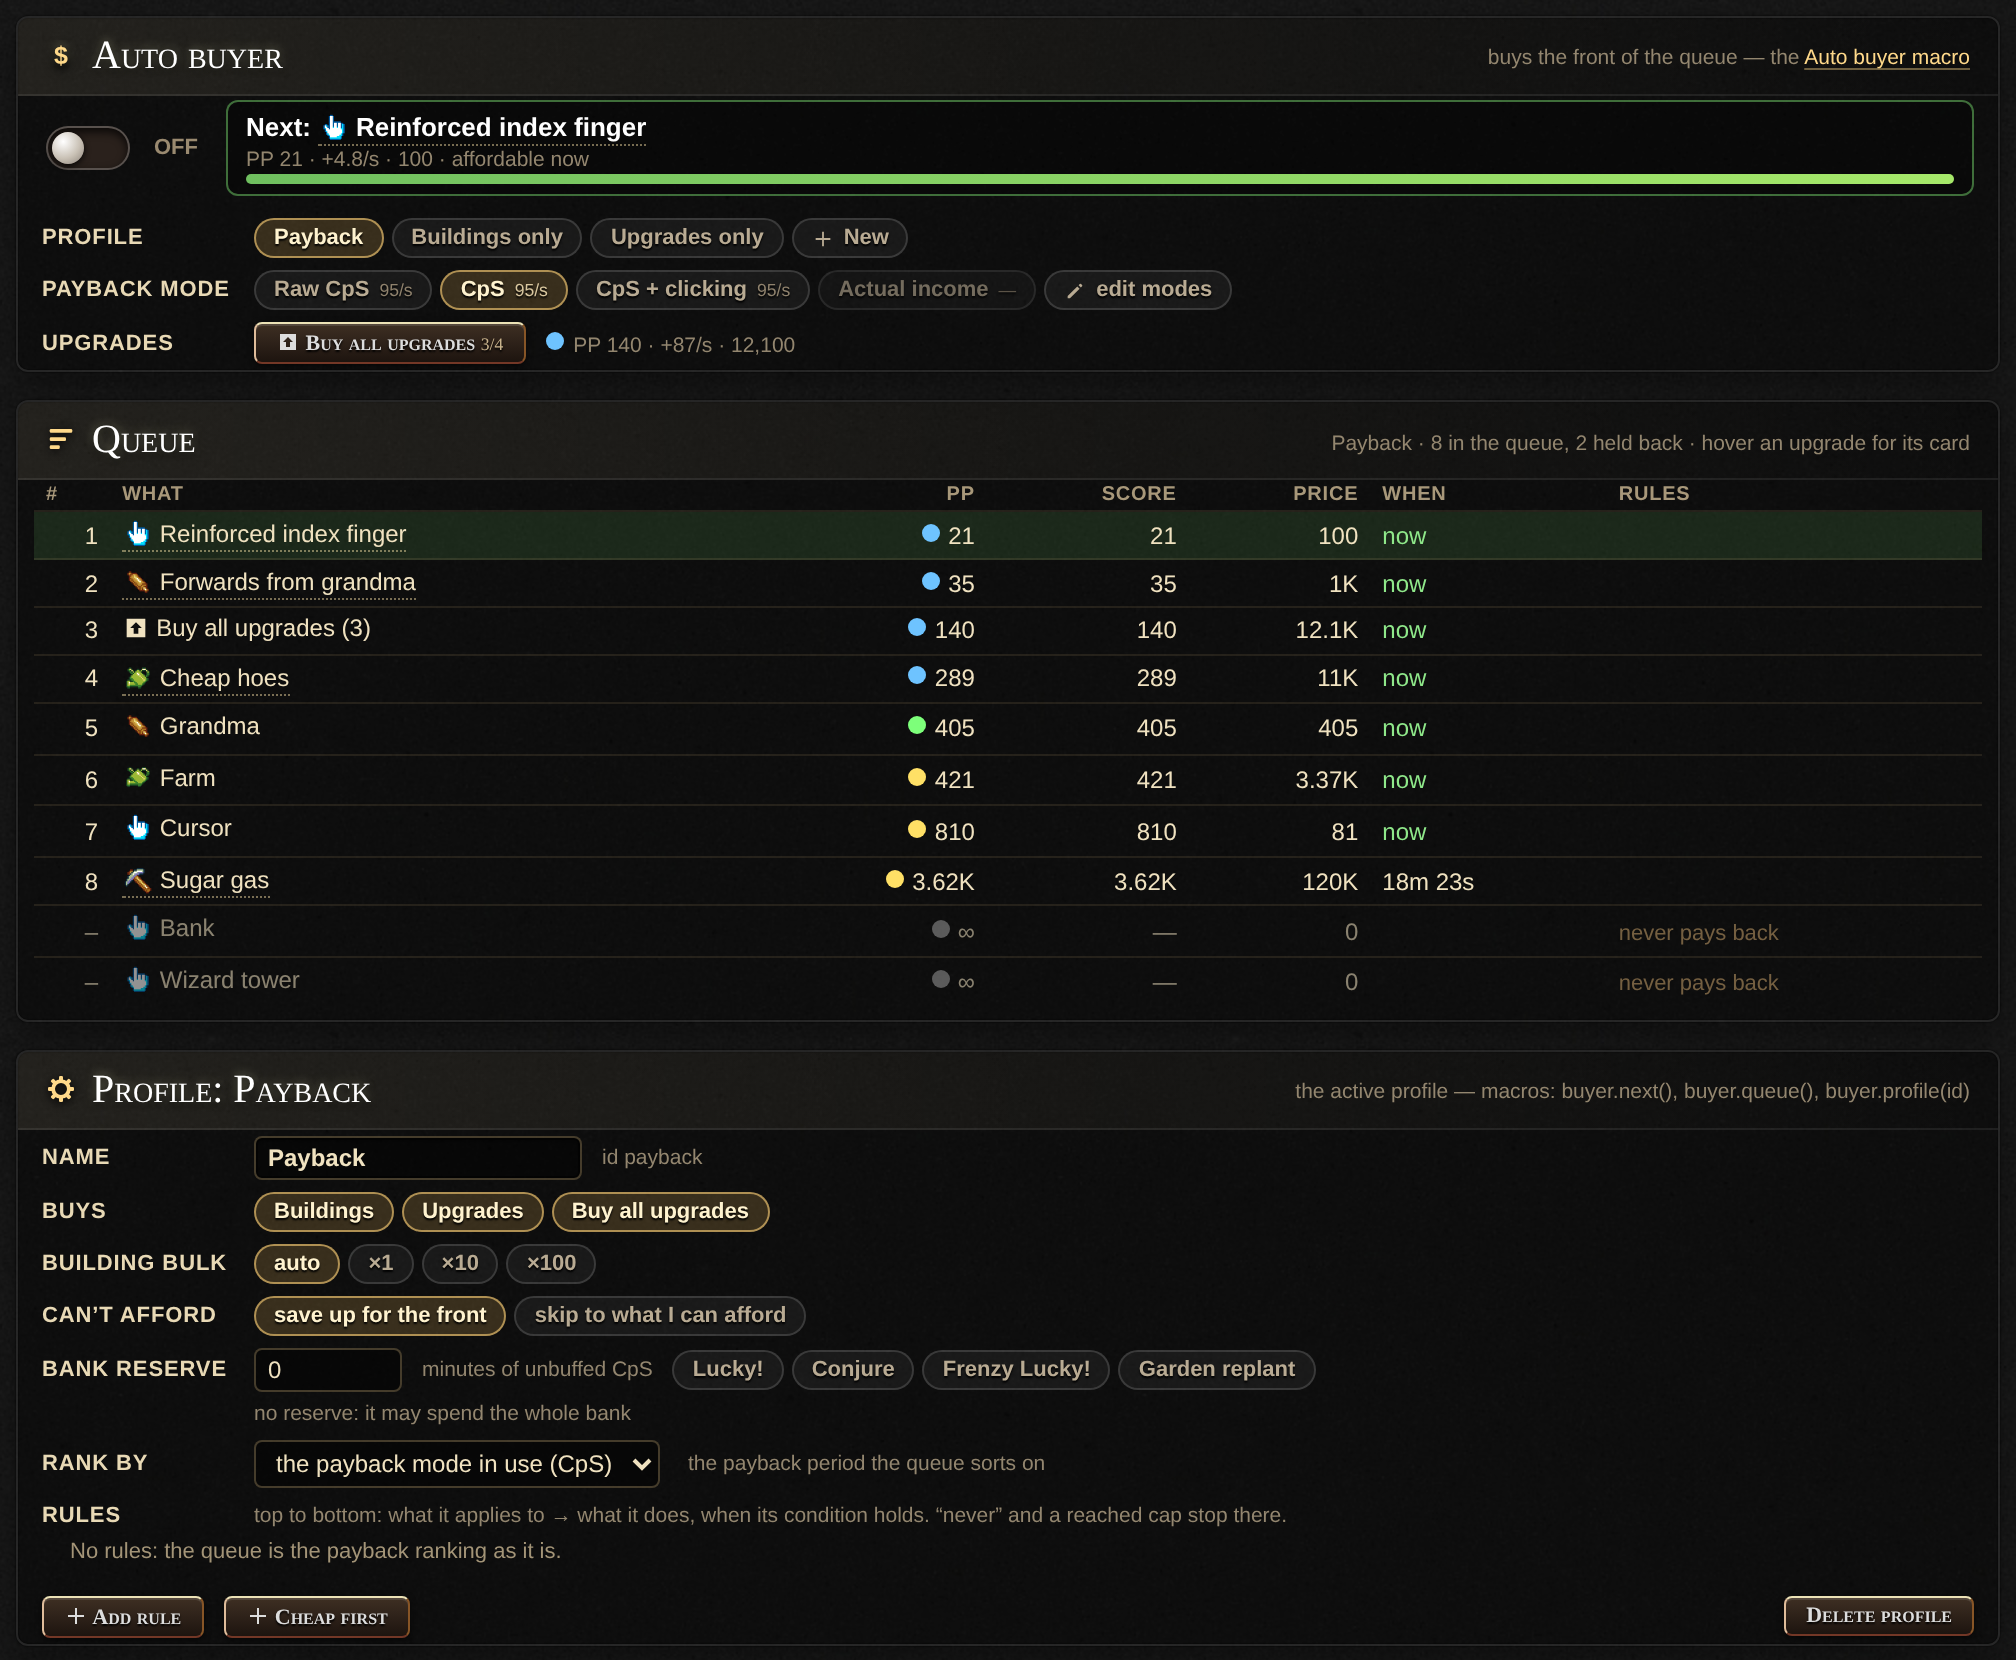
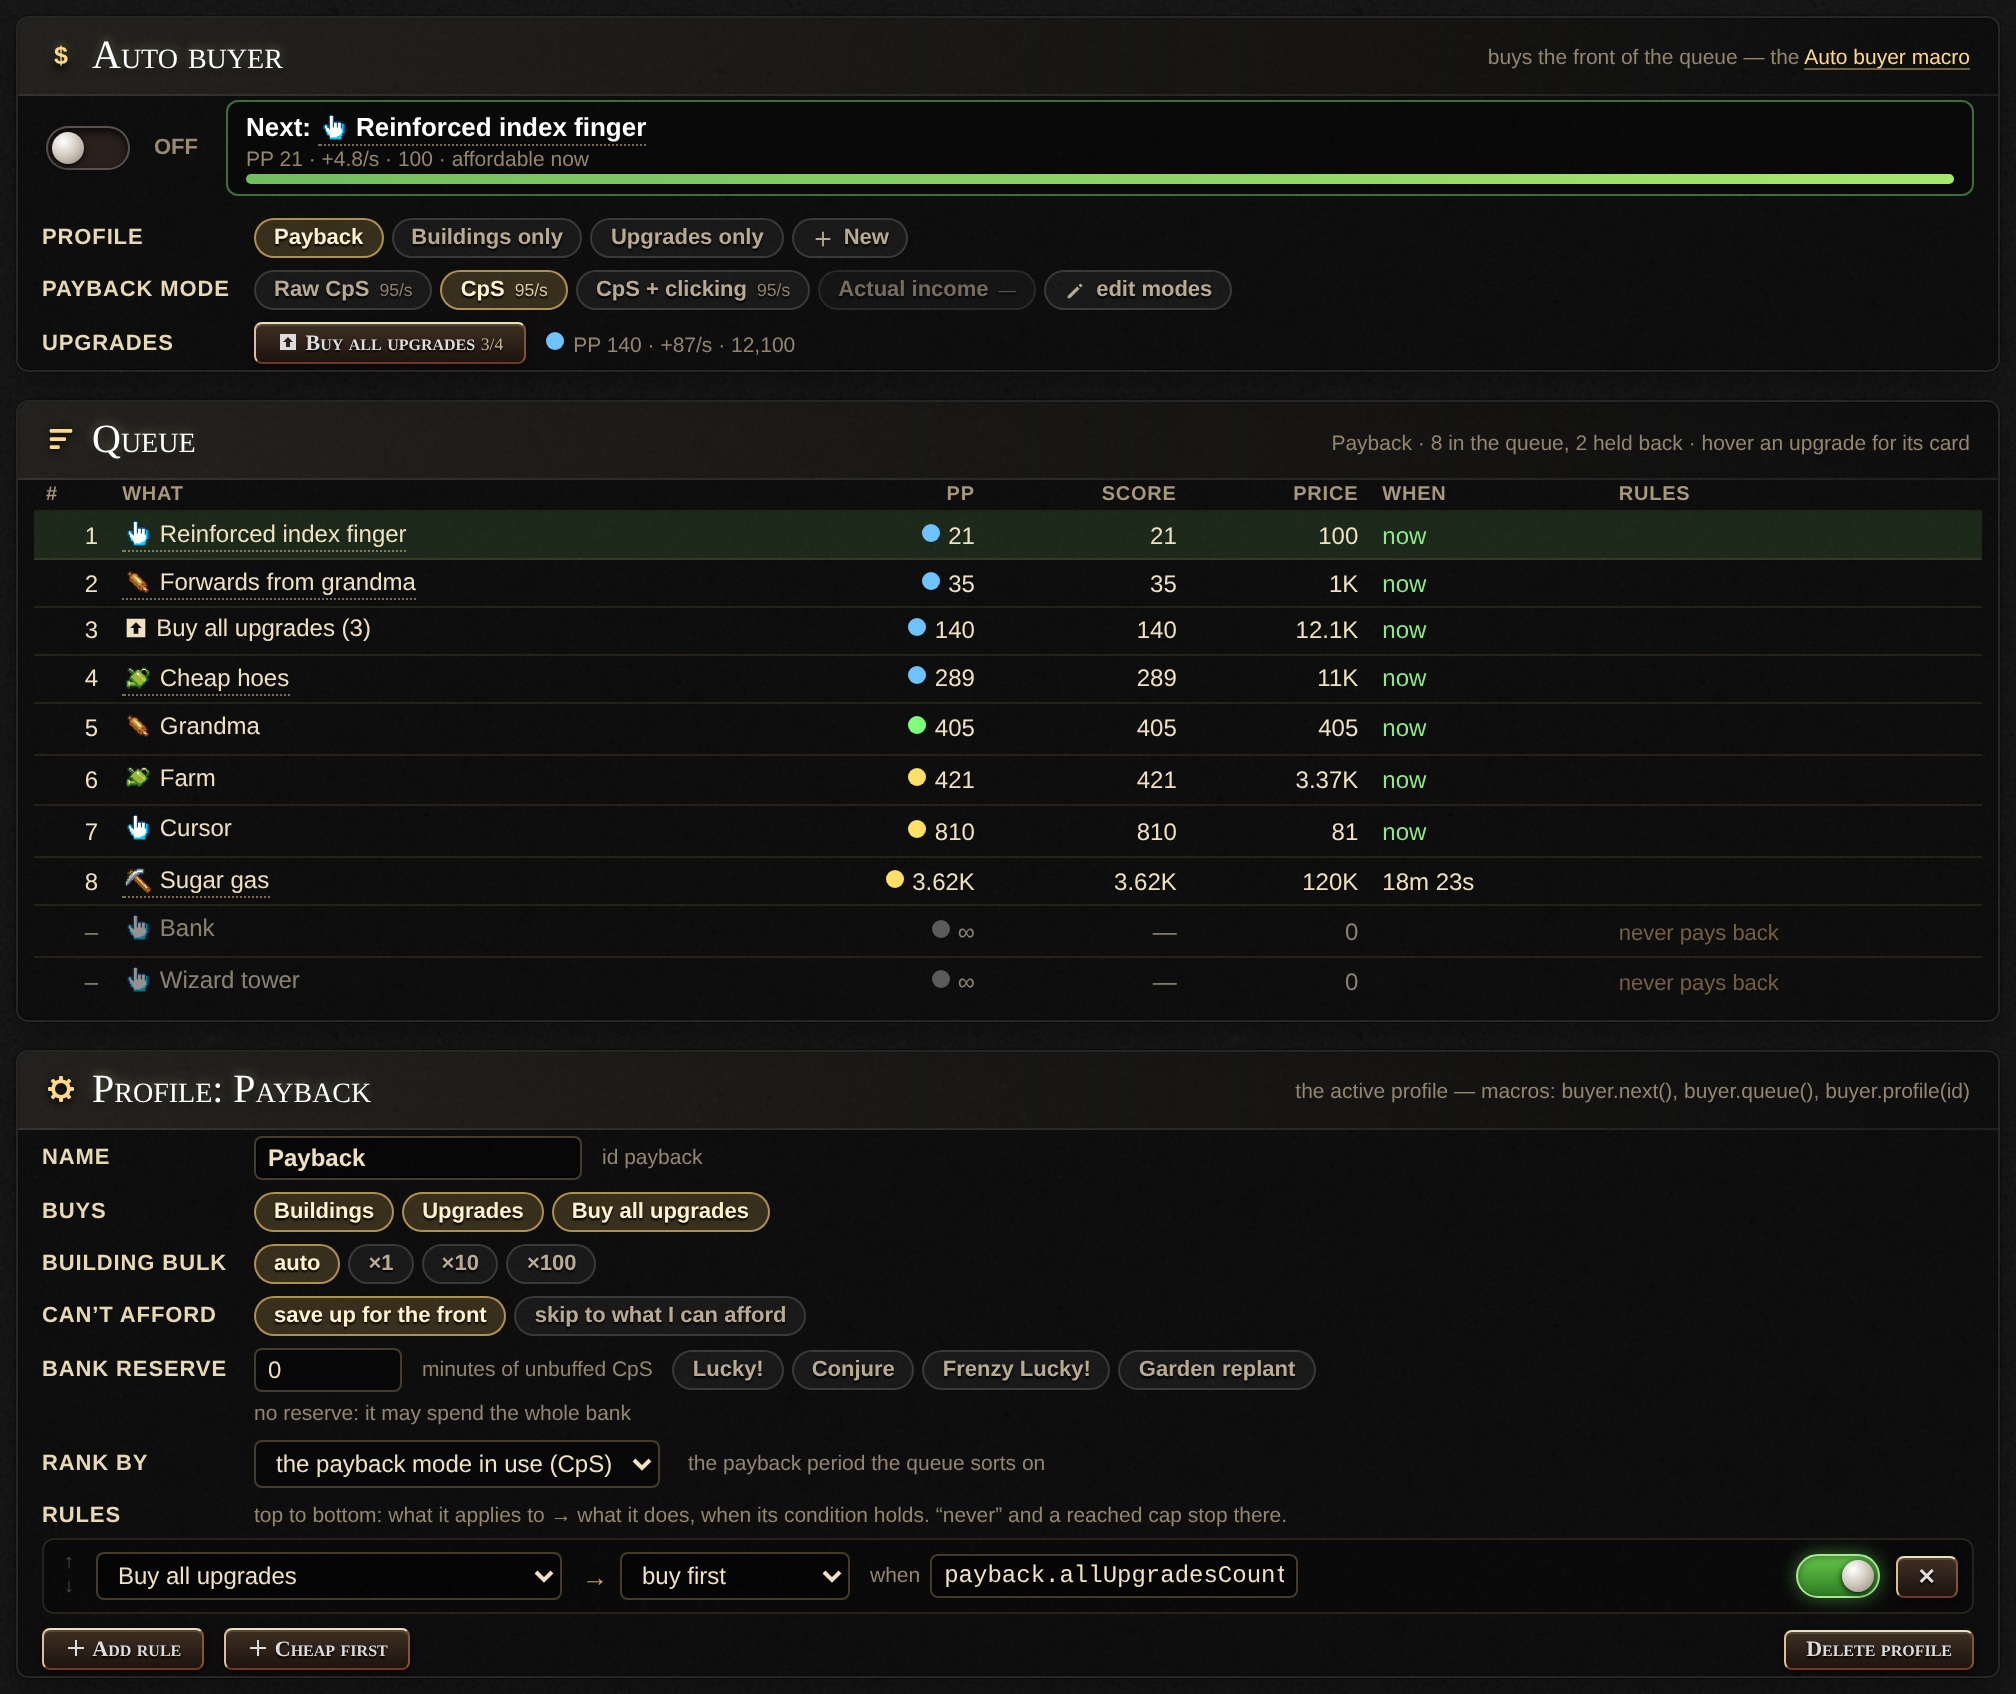
Profiles come with a rule: Buy all upgrades first when 20+ upgrades are affordable
Seeded on Payback and Upgrades only; saved profiles that buy upgrades get it once,
appended. payback.allUpgradesCount takes an optional budget. The queue memo also keys
on the store's size.

Claude-Session: https://claude.ai/code/session_01ALSqfqcDwiTC5yNQSwKhdL

diff --git a/dist/CookieMgr.js b/dist/CookieMgr.js
@@ -8368,7 +8368,7 @@ CA.Payback = (() => {
     PV('payback.allUpgradesIn', 'the payback period of “Buy all upgrades” in a payback mode: "raw", "cps", "clicking", "actual" or a mode statistic’s code name — none: the mode in use (seconds; NaN: it would buy nothing, or a mode not ready)', ['mode'], (m) => allUpgrades({ mode: m }).pp);
     PV('payback.allUpgradesGain', 'the CpS “Buy all upgrades” adds: what the store upgrades the bank affords add together (clicks counted at your click rate)', [], () => allUpgrades().bonus);
     PV('payback.allUpgradesPrice', 'what “Buy all upgrades” spends now: the store upgrades the bank affords, cheapest first', [], () => allUpgrades().price);
-    PV('payback.allUpgradesCount', 'how many upgrades “Buy all upgrades” would buy now', [], () => allUpgrades().n);
+    PV('payback.allUpgradesCount', 'how many upgrades “Buy all upgrades” would buy now (with budget cookies, if given — e.g. buyer.budget(): the bank less a reserve)', ['budget'], (b) => allUpgrades({ budget: b === undefined || b === '' ? undefined : Number(b) }).n);
     V('paybackActual', 'a payback period by actual income: the period × CpS ÷ what you took in over a stretch as long (NaN: too little recorded)', ['seconds'], (p) => (ppActual(Number(p)) || { pp: NaN }).pp);
     V('paybackActualRatio', 'what you actually took in over a payback period’s stretch, as a multiple of your CpS (NaN: too little recorded)', ['seconds'], (p) => (ppActual(Number(p)) || { ratio: NaN }).ratio);
     V('actualIncome', 'cookies a second you actually took in over about the last seconds of play (at least 5 minutes; NaN: too little recorded)', ['seconds'], (p) => (actualIncome(Number(p) || 0) || { actual: NaN }).actual);
@@ -10320,10 +10320,12 @@ CA.AutoBuyer = (() => {
     { id: 'garden', label: 'Garden replant', tip: 'what replanting the whole garden layout costs (garden.layoutCost)', get: () => (CA.Garden.minigame() ? CA.Garden.layoutCost() : 0) },
   ];
 
+  /** The rule profiles that buy upgrades come with (v3.48): lots of upgrades affordable → buy them all at once. */
+  const BULK_RULE = { what: 'allUpgrades', effect: 'first', when: 'payback.allUpgradesCount(buyer.budget()) >= 20' };
   const SEEDS = [
-    { id: 'payback', name: 'Payback', kinds: { building: true, upgrade: true, allUpgrades: true }, bulk: 'auto', skip: false, reserve: 0, banks: [], mode: '', rules: [] },
+    { id: 'payback', name: 'Payback', kinds: { building: true, upgrade: true, allUpgrades: true }, bulk: 'auto', skip: false, reserve: 0, banks: [], mode: '', rules: [cleanRule(BULK_RULE)] },
     { id: 'buildings', name: 'Buildings only', kinds: { building: true, upgrade: false, allUpgrades: false }, bulk: 'auto', skip: false, reserve: 0, banks: [], mode: '', rules: [] },
-    { id: 'upgrades', name: 'Upgrades only', kinds: { building: false, upgrade: true, allUpgrades: true }, bulk: 'auto', skip: false, reserve: 0, banks: [], mode: '', rules: [] },
+    { id: 'upgrades', name: 'Upgrades only', kinds: { building: false, upgrade: true, allUpgrades: true }, bulk: 'auto', skip: false, reserve: 0, banks: [], mode: '', rules: [cleanRule(BULK_RULE)] },
   ];
   const copy = (x) => JSON.parse(JSON.stringify(x));
   let profiles = copy(SEEDS);
@@ -10557,7 +10559,7 @@ CA.AutoBuyer = (() => {
     const p = find(x);
     if (!p) return { profile: null, items: [], held: [] };
     const pass = CA.Macros && CA.Macros.passKey ? CA.Macros.passKey() : null;
-    const k = `${p.id}|${rev}|${Game.cookies}|${Game.cookiesPs}|${P().mode().id}|${pass}`;
+    const k = `${p.id}|${rev}|${Game.cookies}|${Game.cookiesPs}|${P().mode().id}|${pass}|${(Game.UpgradesInStore || []).length}`;
     const now = Date.now();
     if (memo && memo.k === k && now - memo.t < 1000) return memo.q;
     const q = build(p);
@@ -10683,7 +10685,13 @@ CA.AutoBuyer = (() => {
 
   function load(data, whole) {
     if (data && Array.isArray(data.profiles) && data.profiles.length) {
-      profiles = data.profiles.map(cleanProfile);
+      profiles = data.profiles.map((raw, i) => {
+        const p = cleanProfile(raw, i);
+        // saved before Buy all upgrades (v3.48): one that buys upgrades gets its rule
+        const old = !(raw && raw.kinds && typeof raw.kinds === 'object' && 'allUpgrades' in raw.kinds);
+        if (old && p.kinds.upgrade && p.rules.length < 50) p.rules.push(cleanRule(BULK_RULE));
+        return p;
+      });
       active = profiles.some((p) => p.id === data.active) ? data.active : profiles[0].id;
     } else {
       profiles = copy(SEEDS);
@@ -10790,7 +10798,7 @@ CA.AutoBuyer = (() => {
     CA.Macros.rename('cmUpgrades', 'autoBuyer');
   }
 
-  return { init, allUpgrades, buyAllUpgrades, list, find, use, create, update, remove, addRule, setRule, removeRule, moveRule, activeProfile, queue, next, buyNext, readiness, budget, keepOf, reserveParts, thingOf, ruleText, whatText, effectText, whenProblem, reserveOf, WHATS, EFFECTS, BULKS, BANKS, SEEDS };
+  return { init, allUpgrades, buyAllUpgrades, list, find, use, create, update, remove, addRule, setRule, removeRule, moveRule, activeProfile, queue, next, buyNext, readiness, budget, keepOf, reserveParts, thingOf, ruleText, whatText, effectText, whenProblem, reserveOf, WHATS, EFFECTS, BULKS, BANKS, SEEDS, BULK_RULE };
 })();
 
 // ---- src/features/seasons.js -----------------------------------------

diff --git a/src/features/autoBuyer.js b/src/features/autoBuyer.js
@@ -54,10 +54,12 @@ CA.AutoBuyer = (() => {
     { id: 'garden', label: 'Garden replant', tip: 'what replanting the whole garden layout costs (garden.layoutCost)', get: () => (CA.Garden.minigame() ? CA.Garden.layoutCost() : 0) },
   ];
 
+  /** The rule profiles that buy upgrades come with (v3.48): lots of upgrades affordable → buy them all at once. */
+  const BULK_RULE = { what: 'allUpgrades', effect: 'first', when: 'payback.allUpgradesCount(buyer.budget()) >= 20' };
   const SEEDS = [
-    { id: 'payback', name: 'Payback', kinds: { building: true, upgrade: true, allUpgrades: true }, bulk: 'auto', skip: false, reserve: 0, banks: [], mode: '', rules: [] },
+    { id: 'payback', name: 'Payback', kinds: { building: true, upgrade: true, allUpgrades: true }, bulk: 'auto', skip: false, reserve: 0, banks: [], mode: '', rules: [cleanRule(BULK_RULE)] },
     { id: 'buildings', name: 'Buildings only', kinds: { building: true, upgrade: false, allUpgrades: false }, bulk: 'auto', skip: false, reserve: 0, banks: [], mode: '', rules: [] },
-    { id: 'upgrades', name: 'Upgrades only', kinds: { building: false, upgrade: true, allUpgrades: true }, bulk: 'auto', skip: false, reserve: 0, banks: [], mode: '', rules: [] },
+    { id: 'upgrades', name: 'Upgrades only', kinds: { building: false, upgrade: true, allUpgrades: true }, bulk: 'auto', skip: false, reserve: 0, banks: [], mode: '', rules: [cleanRule(BULK_RULE)] },
   ];
   const copy = (x) => JSON.parse(JSON.stringify(x));
   let profiles = copy(SEEDS);
@@ -291,7 +293,7 @@ CA.AutoBuyer = (() => {
     const p = find(x);
     if (!p) return { profile: null, items: [], held: [] };
     const pass = CA.Macros && CA.Macros.passKey ? CA.Macros.passKey() : null;
-    const k = `${p.id}|${rev}|${Game.cookies}|${Game.cookiesPs}|${P().mode().id}|${pass}`;
+    const k = `${p.id}|${rev}|${Game.cookies}|${Game.cookiesPs}|${P().mode().id}|${pass}|${(Game.UpgradesInStore || []).length}`;
     const now = Date.now();
     if (memo && memo.k === k && now - memo.t < 1000) return memo.q;
     const q = build(p);
@@ -417,7 +419,13 @@ CA.AutoBuyer = (() => {
 
   function load(data, whole) {
     if (data && Array.isArray(data.profiles) && data.profiles.length) {
-      profiles = data.profiles.map(cleanProfile);
+      profiles = data.profiles.map((raw, i) => {
+        const p = cleanProfile(raw, i);
+        // saved before Buy all upgrades (v3.48): one that buys upgrades gets its rule
+        const old = !(raw && raw.kinds && typeof raw.kinds === 'object' && 'allUpgrades' in raw.kinds);
+        if (old && p.kinds.upgrade && p.rules.length < 50) p.rules.push(cleanRule(BULK_RULE));
+        return p;
+      });
       active = profiles.some((p) => p.id === data.active) ? data.active : profiles[0].id;
     } else {
       profiles = copy(SEEDS);
@@ -524,5 +532,5 @@ CA.AutoBuyer = (() => {
     CA.Macros.rename('cmUpgrades', 'autoBuyer');
   }
 
-  return { init, allUpgrades, buyAllUpgrades, list, find, use, create, update, remove, addRule, setRule, removeRule, moveRule, activeProfile, queue, next, buyNext, readiness, budget, keepOf, reserveParts, thingOf, ruleText, whatText, effectText, whenProblem, reserveOf, WHATS, EFFECTS, BULKS, BANKS, SEEDS };
+  return { init, allUpgrades, buyAllUpgrades, list, find, use, create, update, remove, addRule, setRule, removeRule, moveRule, activeProfile, queue, next, buyNext, readiness, budget, keepOf, reserveParts, thingOf, ruleText, whatText, effectText, whenProblem, reserveOf, WHATS, EFFECTS, BULKS, BANKS, SEEDS, BULK_RULE };
 })();

diff --git a/src/features/payback.js b/src/features/payback.js
@@ -969,7 +969,7 @@ CA.Payback = (() => {
     PV('payback.allUpgradesIn', 'the payback period of “Buy all upgrades” in a payback mode: "raw", "cps", "clicking", "actual" or a mode statistic’s code name — none: the mode in use (seconds; NaN: it would buy nothing, or a mode not ready)', ['mode'], (m) => allUpgrades({ mode: m }).pp);
     PV('payback.allUpgradesGain', 'the CpS “Buy all upgrades” adds: what the store upgrades the bank affords add together (clicks counted at your click rate)', [], () => allUpgrades().bonus);
     PV('payback.allUpgradesPrice', 'what “Buy all upgrades” spends now: the store upgrades the bank affords, cheapest first', [], () => allUpgrades().price);
-    PV('payback.allUpgradesCount', 'how many upgrades “Buy all upgrades” would buy now', [], () => allUpgrades().n);
+    PV('payback.allUpgradesCount', 'how many upgrades “Buy all upgrades” would buy now (with budget cookies, if given — e.g. buyer.budget(): the bank less a reserve)', ['budget'], (b) => allUpgrades({ budget: b === undefined || b === '' ? undefined : Number(b) }).n);
     V('paybackActual', 'a payback period by actual income: the period × CpS ÷ what you took in over a stretch as long (NaN: too little recorded)', ['seconds'], (p) => (ppActual(Number(p)) || { pp: NaN }).pp);
     V('paybackActualRatio', 'what you actually took in over a payback period’s stretch, as a multiple of your CpS (NaN: too little recorded)', ['seconds'], (p) => (ppActual(Number(p)) || { ratio: NaN }).ratio);
     V('actualIncome', 'cookies a second you actually took in over about the last seconds of play (at least 5 minutes; NaN: too little recorded)', ['seconds'], (p) => (actualIncome(Number(p) || 0) || { actual: NaN }).actual);

diff --git a/README.md b/README.md
@@ -385,7 +385,8 @@ Then the **Queue**: place, what (an
 upgrade with its icon and its info card on hover), payback period in its color, score (the payback period after the
 rules' weights — the order), price, when you can afford it, the rules that touched it; what's held back below,
 grayed, with why. **Buy all upgrades** is a row of its own: the upgrades the budget affords, bought at once and
-measured together (so upgrades that multiply each other count as one purchase). Then the active **Profile**: what it
+measured together (so upgrades that multiply each other count as one purchase). Profiles that buy upgrades come with the rule *Buy all upgrades
+→ buy first when `payback.allUpgradesCount(buyer.budget()) >= 20`*: with lots affordable, it takes them all at once. Then the active **Profile**: what it
 buys (buildings, upgrades, Buy all upgrades), the building bulk, save up or skip,
 the bank reserve (minutes of unbuffed CpS, plus any of the **Lucky!**, **Conjure**, **Frenzy Lucky!** and **Garden
 replant** banks — it keeps the highest, so the bank never drops below any of them), what it ranks by (a payback mode), and its **rules**, top to bottom: what
@@ -394,7 +395,7 @@ anything under N s of CpS, anything that wins an achievement) → **buy first**,
 **never**, each with an optional **when** in the macro language (`thing` is what's ranked). In code: `buyer.next()`,
 `buyer.queue()`, `buyer.rank(thing)`, `buyer.score(thing)`, `buyer.budget()`, `buyer.reserve()`, `buyer.profile(x)`, `buyer.buyNext()`,
 `buy.allUpgrades()`; Buy all upgrades' payback period: `payback.allUpgrades()` (`payback.allUpgradesIn(mode)`,
-`payback.allUpgradesGain()`, `payback.allUpgradesPrice()`, `payback.allUpgradesCount()`), and in the queue it is the
+`payback.allUpgradesGain()`, `payback.allUpgradesPrice()`, `payback.allUpgradesCount(budget)`), and in the queue it is the
 thing `"allUpgrades"`.
 
 Below it, what every purchase is worth (see [Payback periods](#payback-periods)): every

diff --git a/CHANGELOG.md b/CHANGELOG.md
@@ -12,8 +12,12 @@
   them all. Profiles have a **Buy all upgrades** chip under Buys (on where upgrades are bought, saved profiles
   included), and rules can target it. When the budget affords only one upgrade, it's held back: that's just buying
   that one.
+- **Lots of upgrades at once: buy them all first.** Profiles that buy upgrades come with a rule, *Buy all upgrades →
+  buy first when `payback.allUpgradesCount(buyer.budget()) >= 20`*. When 20 or more upgrades are affordable, the
+  buyer takes them all in one go instead of one a tick; otherwise the queue goes by payback period as usual. Saved
+  profiles that buy upgrades get it too, added at the end of their rules; edit or remove it like any rule.
 - **New words:** `payback.allUpgrades()`, `payback.allUpgradesIn(mode)`, `payback.allUpgradesGain()`,
-  `payback.allUpgradesPrice()`, `payback.allUpgradesCount()`; `pp.kind`, `pp.price`, `pp.of` and `pp.buy` take the
+  `payback.allUpgradesPrice()`, `payback.allUpgradesCount(budget)`; `pp.kind`, `pp.price`, `pp.of` and `pp.buy` take the
   thing `"allUpgrades"`.
 
 ## 3.47.1 — 2026-10-28
